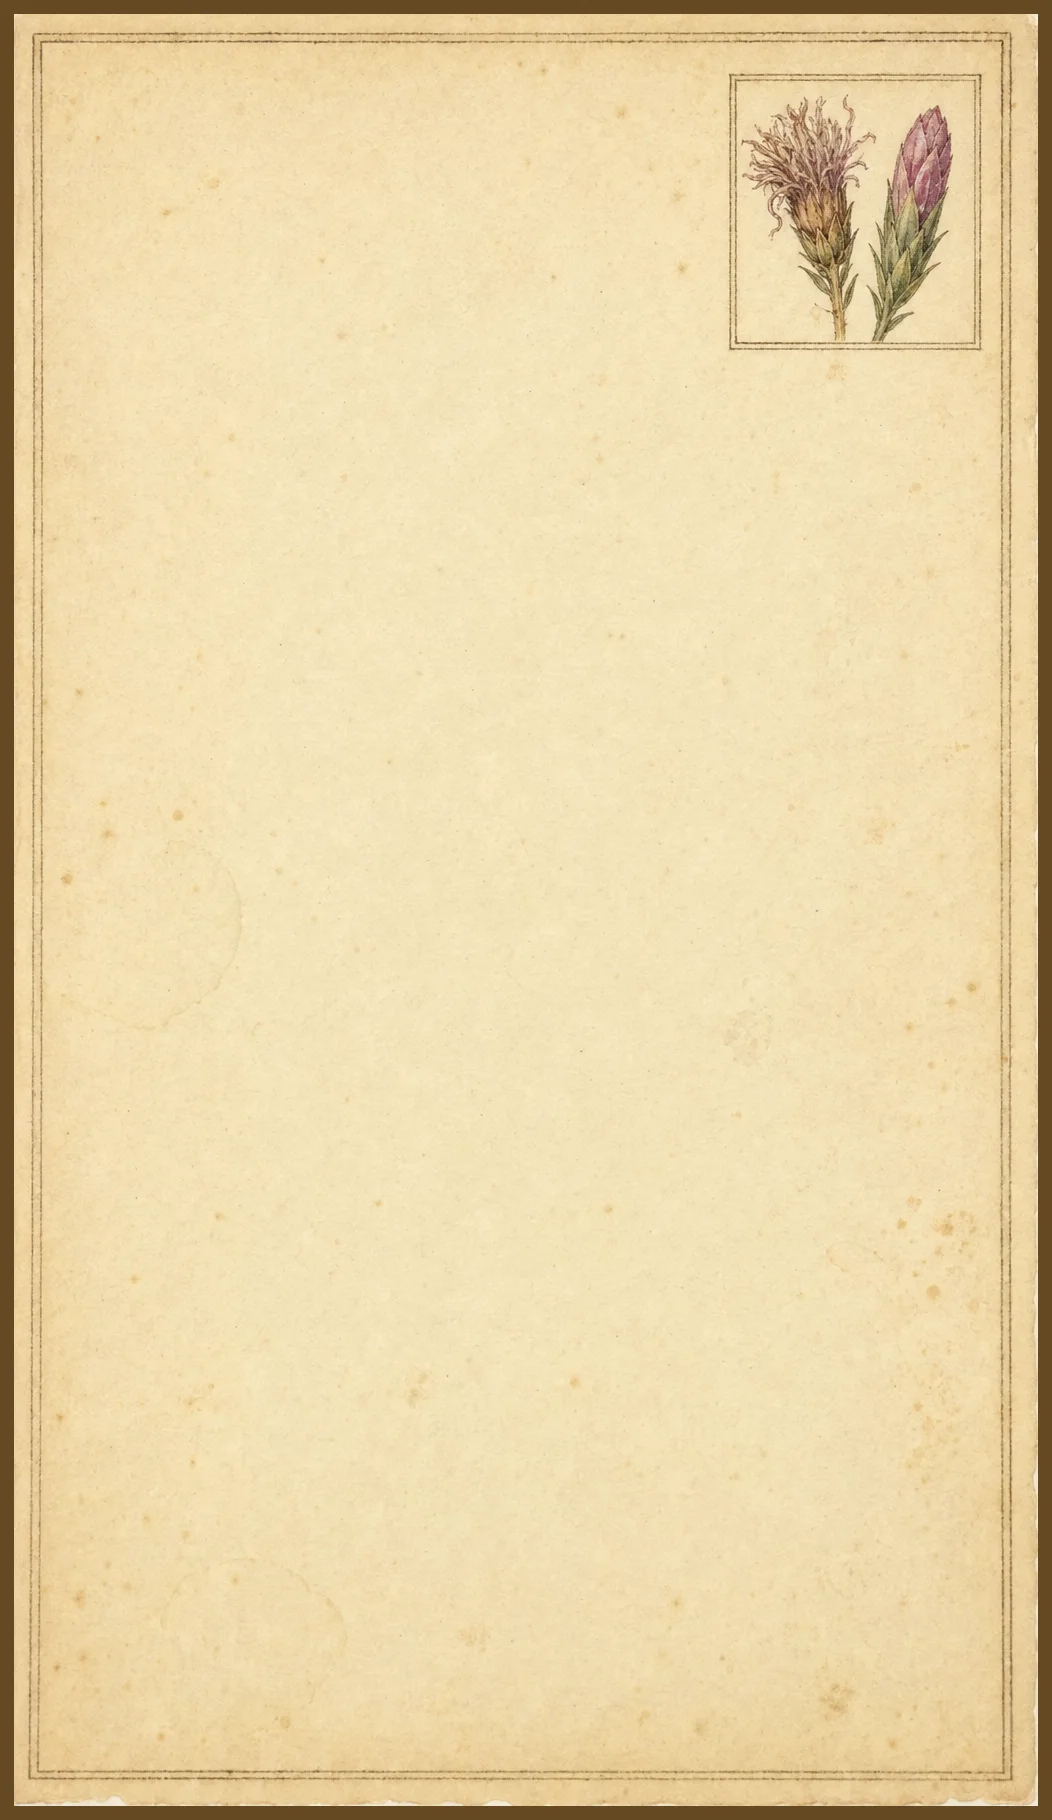
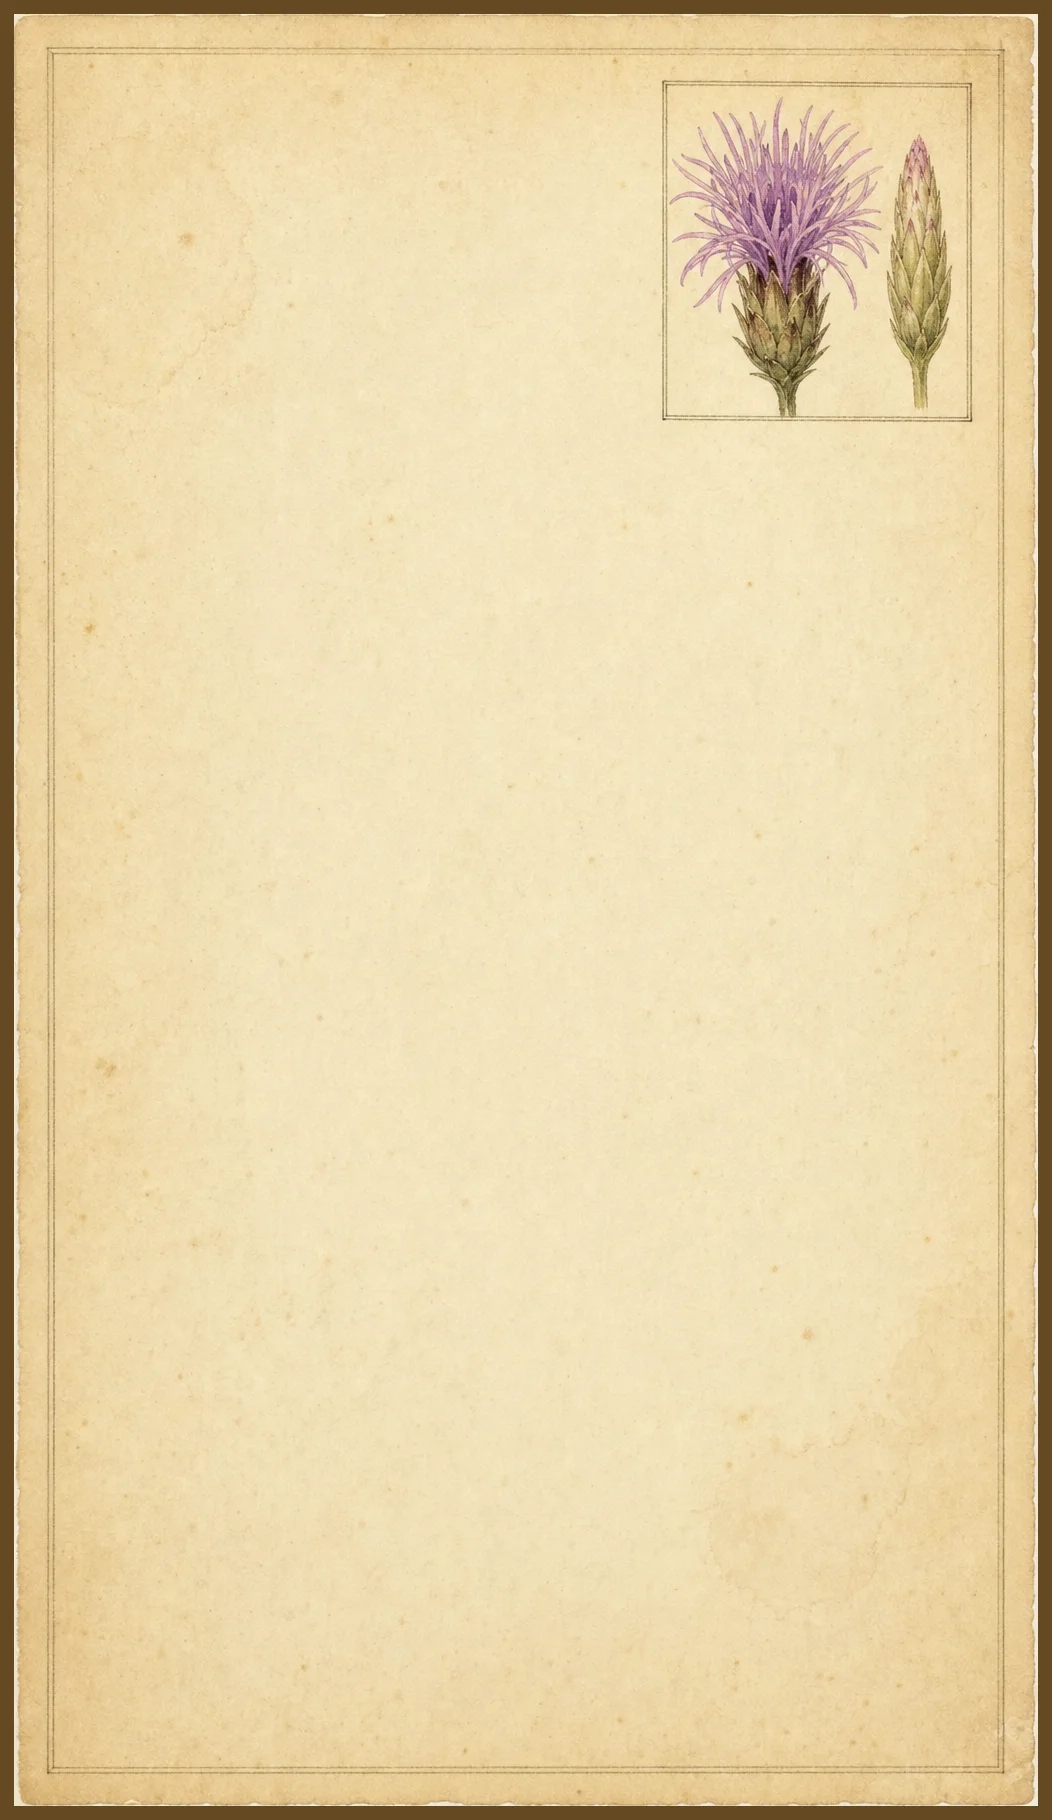
Regen Blazing Star; add swipe-up-changes-plant; isolate Monthly Care swipe
Three shipped together:

1. Regenerated plate 028 (Blazing Star). The prior generation had
   foliage running to the bottom edge (30.3% ink in the label band).
   The new render puts the plant in the top ~75% with clean parchment
   at the bottom, so the "Blazing Star / Liatris spicata / pollinators
   / Light + Bloom / tolerance flags" stack reads cleanly. Audit now
   scores it under the 10% warn threshold.

2. Vertical swipe on the plate stack navigates to the next / previous
   plant in the currently-filtered browse list. Threshold: 80px, and
   only fires if the plate-overlay didn't actually scroll during the
   gesture. Wraps at the ends. Restricted to plants with a plates
   array (encyclopedia entries) so the swipe always lands on a plate.

3. Fixed the Monthly Care horizontal scroller conflicting with the
   plate page-turn. Any touch that starts inside .plate-h-scroll (or
   an interactive element) sets ignoreSwipe = true; the parent stack
   handler then bails out on touchend so the native carousel scroll
   owns the gesture entirely.

diff --git a/index.html b/index.html
@@ -5270,23 +5270,74 @@ function goToPlate(idx) {
   refreshPlateStack(idx, oldIdx);
 }
 
+// Vertical swipe → next / previous plant in the current filtered list.
+// Only plants with an encyclopedia (plates array) are eligible, so the
+// swipe always lands on a plate view. Wraps around at the ends.
+function goToPlantByOffset(offset) {
+  const eligible = getFiltered().filter(p => p.plates && p.plates.length > 0);
+  if (eligible.length < 2) return;
+  let idx = eligible.findIndex(p => p.id === state.detailId);
+  // If the current plant isn't in the filtered list (rare — user changed
+  // filters after opening), fall back to the full PLANTS array with plates.
+  let source = eligible;
+  if (idx < 0) {
+    source = PLANTS.filter(p => p.plates && p.plates.length > 0);
+    idx = source.findIndex(p => p.id === state.detailId);
+    if (idx < 0) return;
+  }
+  const next = (idx + offset + source.length) % source.length;
+  const nextP = source[next];
+  if (!nextP || nextP.id === state.detailId) return;
+  state.detailId = nextP.id;
+  state.currentPlate = 0;   // start each plant on Plate I
+  render();
+  // Nudge the plate overlay to the top so the new plant reads fresh.
+  requestAnimationFrame(() => {
+    const overlay = document.querySelector('#platePages .plate-page[data-idx="0"] .plate-overlay');
+    if (overlay) overlay.scrollTop = 0;
+  });
+}
+
 // Attach swipe (left/right) + tap-zone (right half → next, left half → prev)
 // navigation to the plate stack. Called from render() after DOM insertion.
+// Also handles vertical swipes: up → next plant, down → prev plant.
 function initPlateFlip() {
   const stack = document.getElementById('platePages');
   if (!stack) return;
   refreshPlateStack(state.currentPlate || 0, state.currentPlate || 0);
   let startX = 0, startY = 0, moved = false;
+  // Tracks the plate-overlay's scrollTop at touchstart. If the overlay
+  // actually scrolled during the gesture we treat it as a scroll and
+  // suppress the vertical plant-change trigger.
+  let startScrollTop = 0;
+  let scrollTarget = null;
+  // True when the touch started inside a horizontal scroller (Monthly Care
+  // carousel, cultivar strip) OR an interactive element. In those zones we
+  // let the native scroller/handler own the gesture completely.
+  let ignoreSwipe = false;
   stack.addEventListener('touchstart', e => {
     startX = e.touches[0].clientX; startY = e.touches[0].clientY; moved = false;
+    ignoreSwipe = !!e.target.closest(
+      '.plate-h-scroll, a, button, input, textarea, .plate-dot, .pgl-link, .plate-link, [onclick]'
+    );
+    scrollTarget = e.target.closest('.plate-overlay');
+    startScrollTop = scrollTarget ? scrollTarget.scrollTop : 0;
   }, { passive: true });
   stack.addEventListener('touchmove', e => { moved = true; }, { passive: true });
   stack.addEventListener('touchend', e => {
-    if (!moved) return;
+    if (!moved || ignoreSwipe) return;
     const dx = e.changedTouches[0].clientX - startX;
     const dy = e.changedTouches[0].clientY - startY;
+    // Horizontal → change plate (page turn).
     if (Math.abs(dx) > Math.abs(dy) && Math.abs(dx) > 40) {
       goToPlate((state.currentPlate || 0) + (dx < 0 ? 1 : -1));
+      return;
+    }
+    // Vertical → change plant, but only if the overlay didn't actually
+    // scroll. If it did, this was a scroll gesture; let it be.
+    const scrollDelta = scrollTarget ? scrollTarget.scrollTop - startScrollTop : 0;
+    if (Math.abs(dy) > Math.abs(dx) && Math.abs(dy) > 80 && Math.abs(scrollDelta) < 6) {
+      goToPlantByOffset(dy < 0 ? 1 : -1);
     }
   }, { passive: true });
   // Tap zones for mouse/desktop and single-tap navigation.

diff --git a/sw.js b/sw.js
@@ -1,5 +1,5 @@
 // Bump date on each deploy to refresh cached assets
-const CACHE = 'plant-buddy-2026-07-02zzs';
+const CACHE = 'plant-buddy-2026-07-02zzt';
 const SHELL = ['./index.html', './manifest.json', './icon-192.png', './icon-512.png'];
 
 self.addEventListener('install', e => {